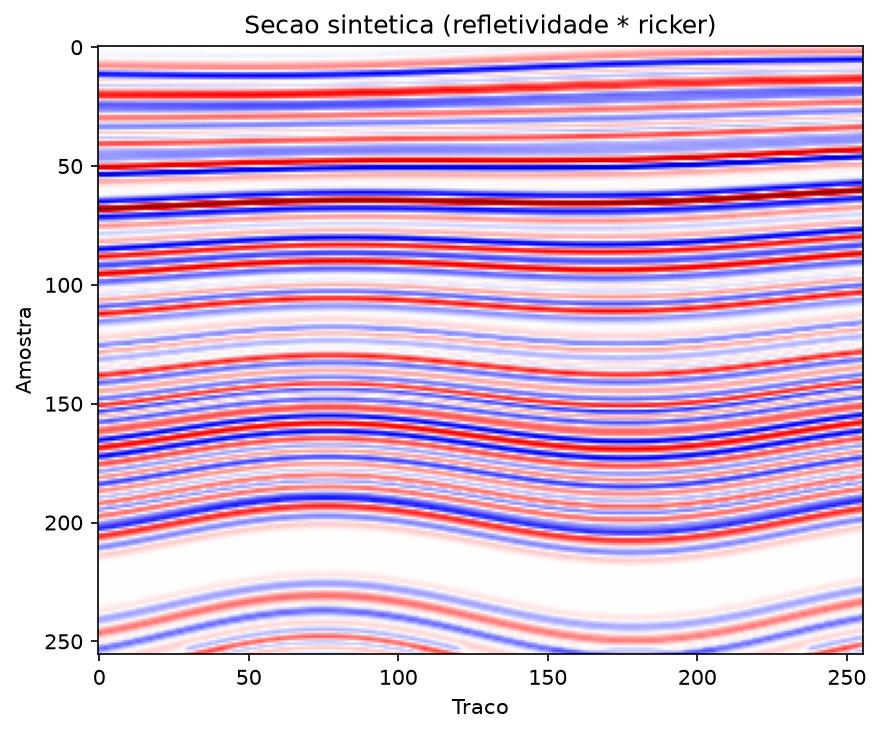
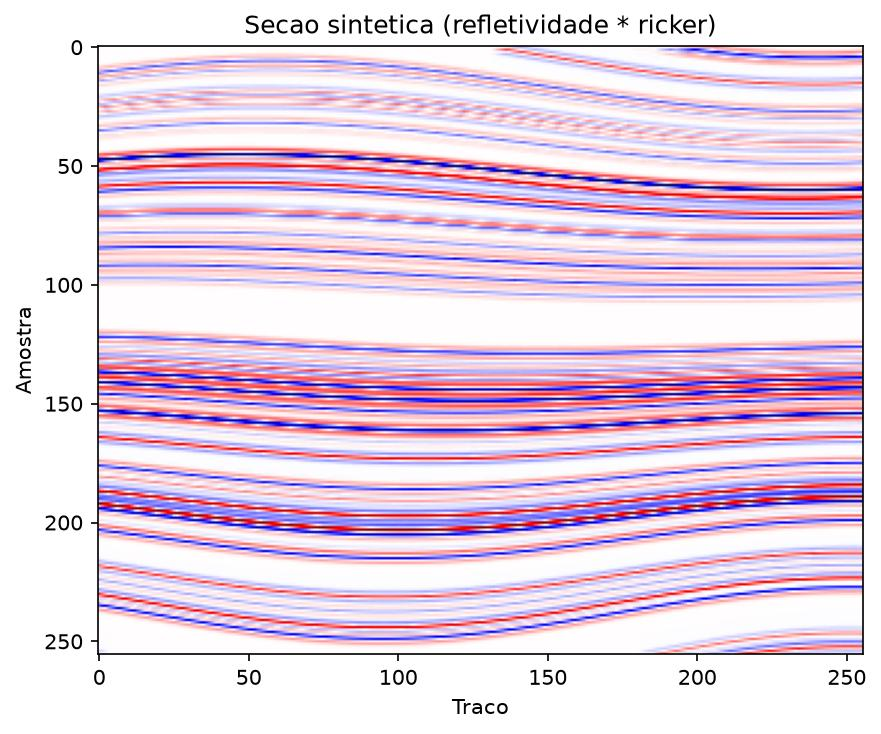
Save reflection sections in SU format

diff --git a/processamento/refletividade_2d.py b/processamento/refletividade_2d.py
@@ -1,5 +1,7 @@
 import numpy as np 
 import matplotlib.pyplot as plt
+from obspy import Stream, Trace
+from obspy.core import AttribDict
 
 ns=256      # amostras
 ntr=256     # tracos
@@ -78,6 +80,21 @@ def adiciona_ruido_snr(sinal, snr_db):
     p_ruido = p_sinal / 10 ** (snr_db / 10)
     return sinal + rng.normal(0, np.sqrt(p_ruido), sinal.shape)
 
+def salva_su(secao, dt, arquivo):
+    """Salva a secao (ns, ntr) em formato SU little-endian"""
+    st = Stream()
+    for k in range(secao.shape[1]):
+        tr = Trace(data=np.ascontiguousarray(secao[:, k], dtype=np.float32))
+        tr.stats.delta = dt
+        tr.stats.su = AttribDict()
+        tr.stats.su.trace_header = AttribDict()
+        # tracl, tracr e cdp
+        tr.stats.su.trace_header.trace_sequence_number_within_line = k + 1
+        tr.stats.su.trace_header.trace_sequence_number_within_segy_file = k + 1
+        tr.stats.su.trace_header.ensemble_number = k + 1
+        st.append(tr)
+    st.write(arquivo, format="SU", byteorder="<")
+
 refl, topo, base = modelo_refletividade(ns, ntr, nrefl=nrefl)
 
 # visualizacao modelo
@@ -112,3 +129,7 @@ ax.set_ylabel("Amostra")
 plt.tight_layout()
 plt.savefig("imagens/secao_2d.jpg", dpi=150, bbox_inches="tight")
 # plt.show()
+
+# exporta secoes em SU (little-endian)
+salva_su(secao, dt, "secao_2d.su")
+salva_su(secao_ruidosa, dt, "secao_2d_ruidosa.su")
